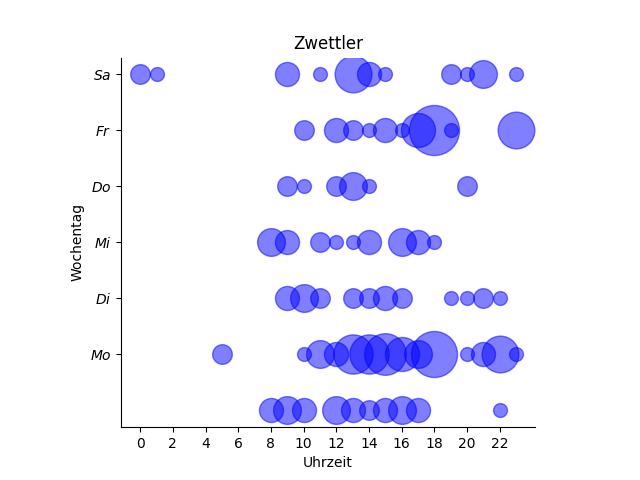
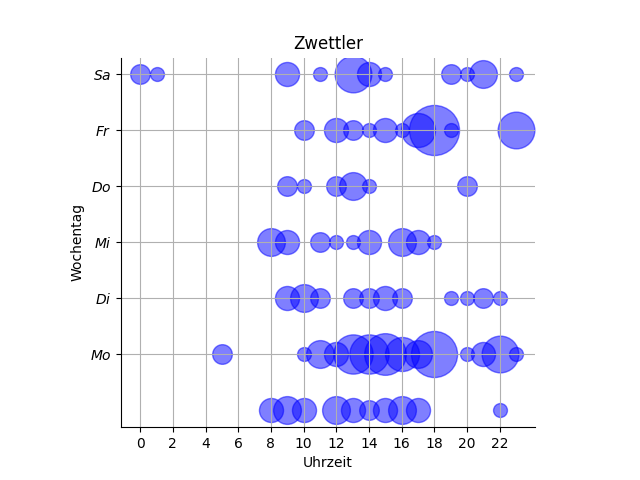
UPDATE added grid and updated the img

diff --git a/UE_03/statistik.py b/UE_03/statistik.py
@@ -41,7 +41,7 @@ plt.yticks([1,2,3,4,5,6,7],
 # Titel
 ax.set_title("Zwettler")
 
-
+ax.grid(True)
 for point in points:
     day = point[0]
     time = point[1]
